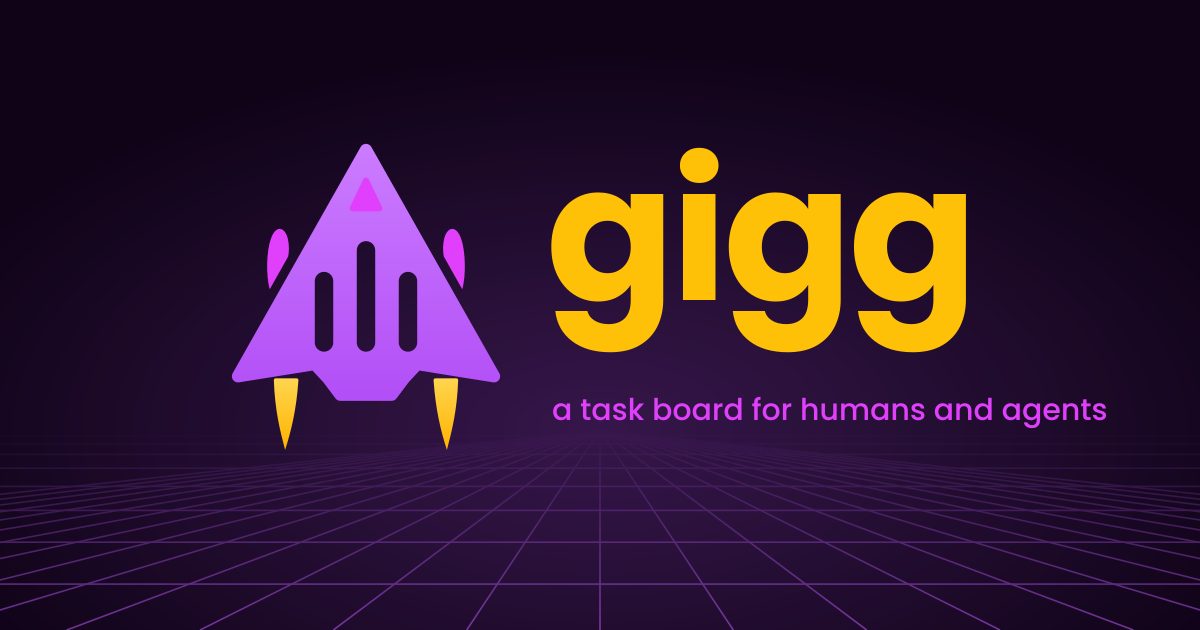
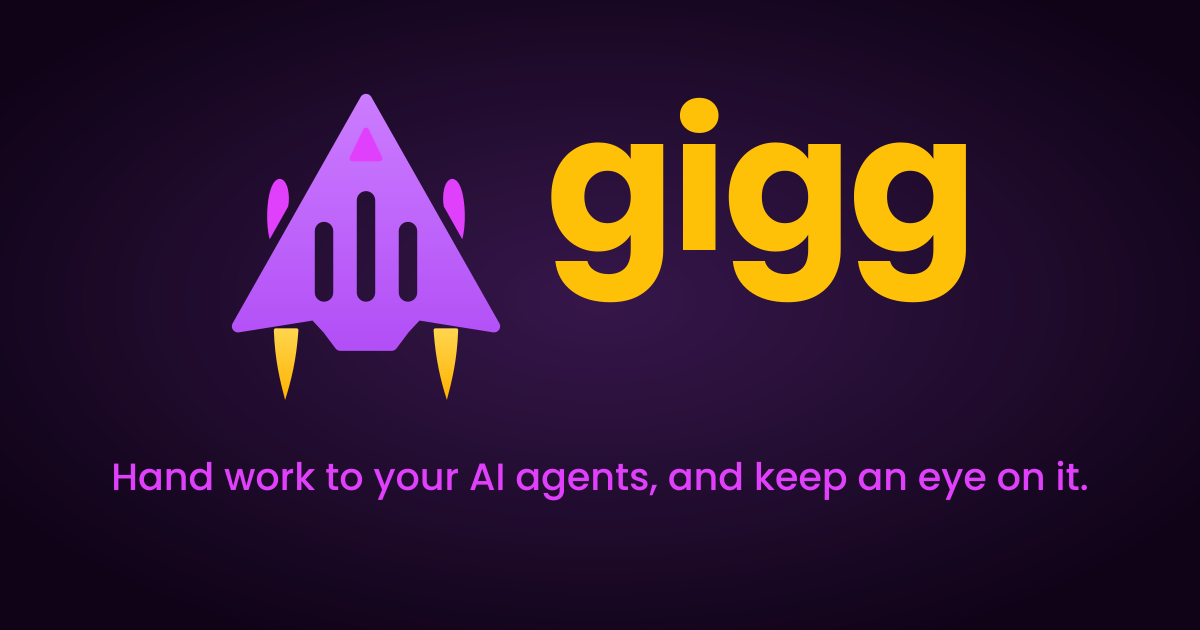
Social preview: the README's tagline, without the grid
The link preview (web/public/og-image.png and its brand copy) now reads "Hand work to your AI
agents, and keep an eye on it.", like the README, the manifest and the meta tags, centred under the
ship and the wordmark. The perspective grid is gone; the glow stays. gen.py draws it (the banner
keeps its grid), and the PNG carries no metadata.

diff --git a/assets/brand/tools/gen.py b/assets/brand/tools/gen.py
@@ -95,7 +95,7 @@ f16 = (f'<rect width="16" height="16" rx="3" fill="{DARK["bg"]}"/>'
 write("favicon-16.svg", svg(16, 16, f16))
 
 # 5. Banner and social preview: perspective grid, ship + "gigg" wordmark (Poppins Bold).
-def grid(w, h, horizon, c):
+def grid(w, h, horizon, c, lines_on=True):
     vx = w / 2
     lines = []
     for i in range(-14, 15):
@@ -112,7 +112,7 @@ def grid(w, h, horizon, c):
             f'<radialGradient id="haze" cx="0.5" cy="{horizon / h:.3f}" r="0.6"><stop offset="0" stop-color="{c["border"]}" '
             f'stop-opacity="0.22"/><stop offset="1" stop-color="{c["border"]}" stop-opacity="0"/></radialGradient></defs>'
             f'<rect width="{w}" height="{h}" fill="{c["bg"]}"/><rect width="{w}" height="{h}" fill="url(#haze)"/>'
-            f'<g stroke="{c["grid"]}" stroke-width="1.6" mask="url(#gridfade)">{"".join(lines)}</g>')
+            + (f'<g stroke="{c["grid"]}" stroke-width="1.6" mask="url(#gridfade)">{"".join(lines)}</g>' if lines_on else ""))
 
 
 def wordmark(x, baseline, size, c):
@@ -121,9 +121,10 @@ def wordmark(x, baseline, size, c):
 
 
 write("banner.svg", svg(1600, 400, grid(1600, 400, 250, DARK) + place(DARK, "b", 470, 200, 300) + wordmark(650, 262, 250, DARK)))
-# group = ship (~260 wide) + 50 gap + wordmark (~2.2 x size wide), centred horizontally
-og = (grid(1200, 630, 430, DARK) + place(DARK, "o", 366, 300, 300) + wordmark(546, 300, 190, DARK)
-      + f'<text x="552" y="420" font-family="Poppins" font-weight="500" font-size="30" fill="{DARK["tag"]}">'
-        f'a task board for humans and agents</text>')
+# social preview: the glow without the grid; ship + wordmark centred (ship ~260 wide, 50 gap, wordmark ~2.2 x
+# size wide), the README's tagline centred under them
+og = (grid(1200, 630, 300, DARK, lines_on=False) + place(DARK, "o", 366, 250, 300) + wordmark(546, 250, 190, DARK)
+      + f'<text x="600" y="490" text-anchor="middle" font-family="Poppins" font-weight="500" font-size="38" '
+        f'fill="{DARK["tag"]}">Hand work to your AI agents, and keep an eye on it.</text>')
 write("og-image.svg", svg(1200, 630, og))
 print("svgs:", sorted(os.listdir(OUT)))
